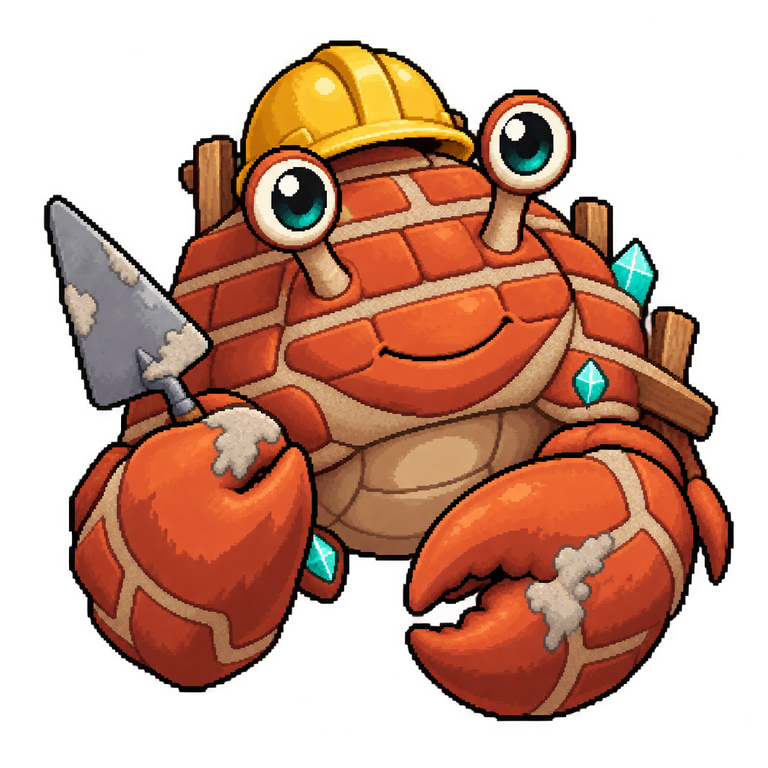
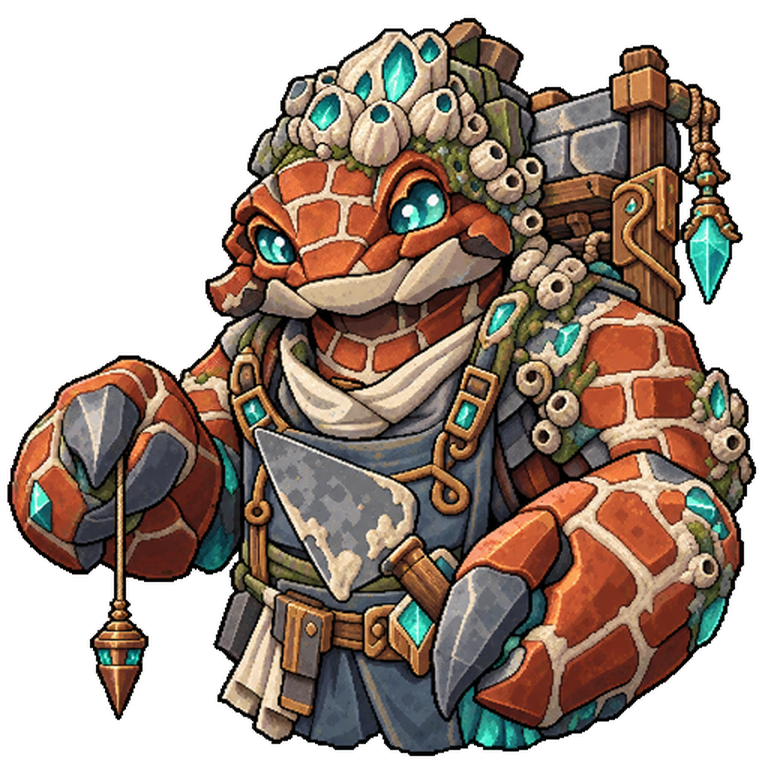
feat: busto do Tijolino vira o caranguejo pedreiro do dono

diff --git a/docs/REGISTRO-DE-DECISOES.md b/docs/REGISTRO-DE-DECISOES.md
@@ -2591,3 +2591,7 @@ Campos novos, todos opcionais com sanitize no `hydrateSave` (**não sobe `SAVE_S
 - **Decisão:** os pools de Poder, Harmonia e Benevolência (`ALIGNMENT_DESIGNS`, `TYPE_LOOK`) e os motivos novos perdem tudo que descreve olhar, boca, sorriso, bochechas, expressão ou "fofura" (sorriso, careta, olhos, "huggable", "fluffy"...). Ficaram corpo, postura, silhueta, motivos e acentos de cor; os itens faciais foram trocados no mesmo lugar por itens neutros de corpo/postura (os pools mantêm o tamanho). Os 4 adjetivos faciais do pedido de hoje cedo (gentle expression, wise look, serene face, benevolent expression) saíram; ficaram os de postura/forma.
 - **Cláusula constante** em todo prompt, nas duas variantes: "Simple neutral face with minimal facial detail, small plain eyes, no smile, no frown." (`NEUTRAL_FACE_CLAUSE`).
 - **Régua:** `oracle/formas.test.ts` varre os prompts de 150 sementes (todos os estágios, as duas variantes) atrás de vocabulário de expressão. Soulmon salvos não mudam.
+
+## 73. Busto do Tijolino é o caranguejo pedreiro do dono (dono, 15/10/2026)
+
+- **Decisão:** o busto do NPC do Restaurante em obra deixa de ser a arte gerada por IA e passa a ser `dominios/industrial/npcs/npc-industrial-caranguejo-argila-pedreiro.png` (512², pintada, alfa binário), normalizada para 768² (Lanczos, alfa ≥250 → 255) e salva por cima de `soulmon/npcs/npc-mercado-restaurante.png` (ligações e `LOT_NPC_ART` intactos). Nome "Tijolino, o pedreiro", fala, prédio e tutorial não mudam. A pasta `dominios/` não foi tocada.

diff --git a/docs/INVENTARIO-ASSETS.md b/docs/INVENTARIO-ASSETS.md
@@ -376,4 +376,5 @@ Fila com uso/formato/prompt: `docs/ASSETS-A-GERAR.md`. Squad: `/squad-arte` (8 a
 | Arquivo | Pasta | Tamanho | Uso |
 |---|---|---|---|
 | `npc-perfil-corvo.png` | `soulmon/npcs/` | 768² (RGBA, alfa real) | busto do NPC do Perfil (`LOT_NPC_ART['laboratorio:perfil']`); `mascot-raven.png` (384²) segue como mascote nos outros lugares |
+| `npc-mercado-restaurante.png` | `soulmon/npcs/` | 768² (RGBA, alfa real) | busto do NPC do Restaurante em obra, Tijolino (`LOT_NPC_ART['mercado:restaurante']`); arte do dono, vem de `dominios/industrial/npcs/npc-industrial-caranguejo-argila-pedreiro.png` (512², Lanczos para 768², alfa ≥250 → 255); a original em `dominios/` segue intacta |
 
